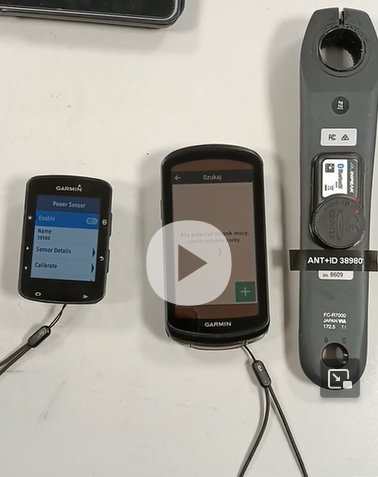
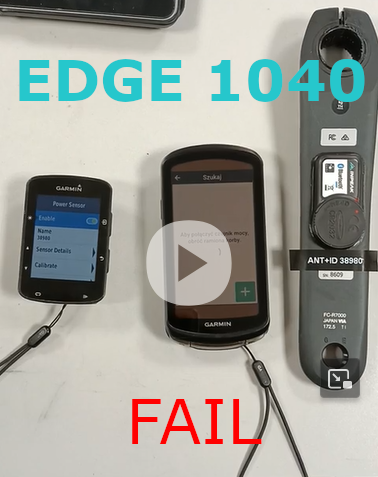
Final test description

diff --git a/README.md b/README.md
@@ -9,38 +9,43 @@ Below is a description of the ANT+ connectivity problem of the new Garmin device
 
 Facts:
     
-    1. the test used INPEAK POWERCRANK V3 fw power measurement. version 3.15
-    2. one copy of the power meter for the test (same electronics, unchanged software). 
+    1. the test used the INPEAK POWERCRANK V3 power meter fw. version 3.15
+    2. the same power meter was used for the test (same electronics, same software version). 
     3. garmin Edge 1040 fw. verison 16.13
     4. Garmin Edge 520 Plus fw. version 5.70
 
-Activities:
+Actions:
 
-    The sensor is assigned ANT+ ID number "11101"
-    1. attempt to add power measurement to Edge 520 and Edge 1040 
+    The sensor has ANT+ ID number "38980"
+    1. attempt to add power measurement to Edge 520 Plus and Edge 1040 
     2. observing the stability of the connection 
     3. attempting to read the sensor data
     4. attempting to perform zero offset calibration
     
-    Sensor sensor was renumbered ANT+ ID "45264"
-    5. attempting to add power measurement to Edge 520 and Edge 1040 
+    Sensor has changed ANT+ ID number "34835"
+    5. attempting to add power measurement to Edge 520 Plus and Edge 1040 
     6. observing the stability of the connection 
     7. attempting to read the sensor data
     8. attempting to perform zero offset calibration
 
 Conclusions, according to the action number:
     
-    1. Edge 520 finds power measurement ANT+ ID "11101", Edge 1040 finds power measurement but takes much longer 
-    2. Edge 520 maintains a stable connection with ANT+ ID "11101", Edge 1040 connects, and after a while breaks the connection, the situation repeats periodically
-    3. Edge 520 reads serial number, software version, battery status, ANT+ sensor manufacturer ID "11101", Edge 1040 does not read serial number, software version, battery status, sensor manufacturer 
-    4. the Edge 520 calls the calibration of the sensor ANT+ ID "11101" and returns success with the value "0", Edge 1040 calls the calibration of the sensor ANT+ ID "11101" but it takes a very long time and ends with an error each time 
+    1. Edge 520 finds power meter ANT+ ID "38980", Edge 1040 finds power meter ANT+ ID "38980" but takes much longer 
+    2. Edge 520 maintains a stable connection with ANT+ ID "38980", Edge 1040 connects, and after a while breaks the connection, the situation repeats periodically with ANT+ ID "38980"
+    3. Edge 520 reads serial number, software version, battery status, ANT+ sensor manufacturer, Edge 1040 does not read serial number, software version, battery status, sensor manufacturer 
+    4. the Edge 520 calls the calibration of the sensor ANT+ ID "38980" and returns success with the value "0", Edge 1040 calls the calibration of the sensor ANT+ ID "38980" but it takes a very long time and ends with an error each time 
 
-    5. the Edge 520 finds ANT+ power measurement ID "45264", Edge 1040 finds ANT+ power measurement ID "45264"
-    6. Edge 520 maintains stable connection with ANT+ ID "45264", Edge 1040 maintains stable connection with ANT+ ID "45264"
-    7. Edge 520 reads serial number, software version, battery status, ANT+ sensor manufacturer ID "45264", Edge 1040 reads serial number, software version, battery status, ANT+ sensor manufacturer ID "45264"
-    8. the Edge 520 calls the calibration of the ANT+ sensor ID "45264" and it returns success with the value "0", the Edge 1040 calls the calibration of the ANT+ sensor ID "45264" and it returns success with the value "0"
 
-<a href="https://www.dropbox.com/s/0glv9oq6ury0g5t/VID20230116152940.mp4?dl=0"><img src=images/scrsht_1.png></a>
+    Below you will find a video showing the problem with ANT+ ID "38980":
+    <a href="https://www.dropbox.com/s/0glv9oq6ury0g5t/VID20230116152940.mp4?dl=0"><img src=images/scrsht_1.png></a>
     
 
-# Test 2
+    5. Edge 520 finds ANT+ power meter ID "34835", Edge 1040 finds ANT+ power meter ID "34835"
+    6. Edge 520 maintains stable connection with ANT+ ID "34835", Edge 1040 maintains stable connection with ANT+ ID "34835"
+    7. Edge 520 reads serial number, software version, battery status, ANT+ sensor manufacturer, Edge 1040 reads serial number, software version, battery status, ANT+ sensor manufacturer
+    8. the Edge 520 calls the calibration of the ANT+ sensor ID "34835" and it returns success with the value "0", the Edge 1040 calls the calibration of the ANT+ sensor ID "34835" and it returns success with the value "0"
+
+    
+    Below you will find a video showing that the problem does not occur (ANT+ ID "34835"):
+    <a href="https://www.dropbox.com/s/ney4zsucbjsupgp/VID20230116152536.mp4?dl=0"><img src=images/scrsht_2.png></a>
+
